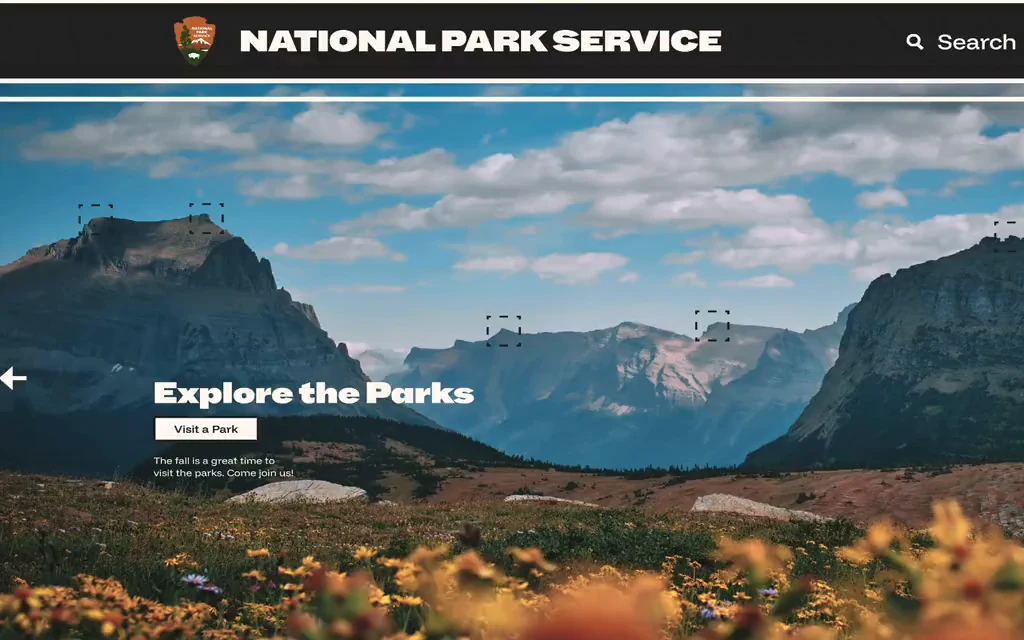
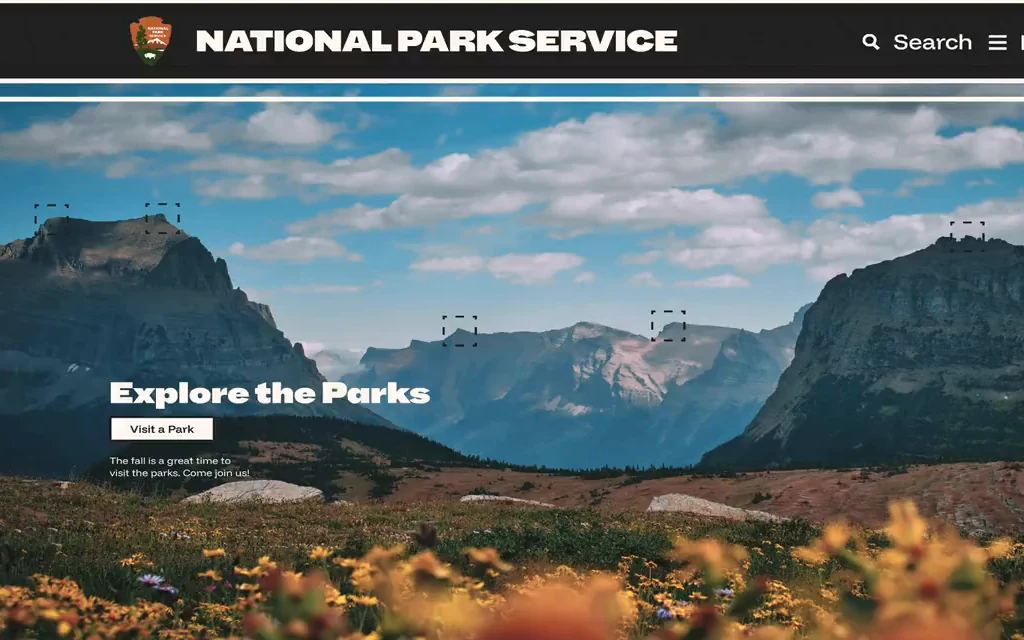
National Park Service: keep the wildflower cover, nudged right to hide the carousel arrow; drop the other options
Claude-Session: https://claude.ai/code/session_01FpZ9Z94xGpijwSzcHRhhjq

diff --git a/index.html b/index.html
@@ -649,7 +649,7 @@ footer { border-top: 1px solid var(--line); }
 <script>
 /* Draft notes (yellow boxes) mark what Jack still needs to supply. Set to false to hide them all. */
 const DRAFT = true;
-const ASSETS = {"cover-quarters": "assets/cover-quarters.webp", "cover-stewart-title": "assets/cover-stewart-title.png", "cover-amazon-music": "assets/cover-amazon-music.webp", "cover-savannah-parking": "assets/cover-savannah-parking.webp", "cover-national-park-service": "assets/cover-national-park-service.webp", "cover-nps-card": "assets/cover-nps-card.webp", "cover-nps-lake": "assets/cover-nps-lake.webp", "cover-nps-alaska": "assets/cover-nps-alaska.webp", "cover-nps-denali": "assets/cover-nps-denali.webp", "cover-nest-thermostat": "assets/cover-nest-thermostat.webp", "nps-topo": "assets/nps-topo.webp", "nps-real": "assets/nps-real.webp", "nps-nat": "assets/nps-nat.webp", "nps-con": "assets/nps-con.webp", "nps-color": "assets/nps-color.webp", "nps-type": "assets/nps-type.webp", "nps-layout": "assets/nps-layout.webp", "nps-mirage": "assets/nps-mirage.webp", "nps-sunday": "assets/nps-sunday.png", "nps-hikeon": "assets/nps-hikeon.webp", "nps-palette": "assets/nps-palette.webp", "nps-typefaces": "assets/nps-typefaces.webp", "nps-shapes": "assets/nps-shapes.webp", "nps-illus": "assets/nps-illus.webp", "nps-components": "assets/nps-components.webp", "nps-flow": "assets/nps-flow.webp", "nest-lookbook": "assets/nest-lookbook.webp", "nest-poster": "assets/nest-poster.webp", "nest-summary": "assets/nest-summary.webp", "nest-sg1": "assets/nest-sg1.png", "nest-sg2": "assets/nest-sg2.png", "nest-sg3": "assets/nest-sg3.png", "nest-sg4": "assets/nest-sg4.png", "nest-sg5": "assets/nest-sg5.png", "nest-sg6": "assets/nest-sg6.png", "nest-eco": "assets/nest-eco.png", "nest-cool": "assets/nest-cool.webp", "nest-heat": "assets/nest-heat.webp", "nest-home": "assets/nest-home.png", "nest-schedule": "assets/nest-schedule.png", "fr-hero": "assets/fr-hero.webp", "fr-obs1": "assets/fr-obs1.webp", "fr-obs2": "assets/fr-obs2.webp", "fr-stake": "assets/fr-stake.png", "fr-screener": "assets/fr-screener.png", "fr-questions": "assets/fr-questions.png", "fr-insights": "assets/fr-insights.png", "fr-workshop": "assets/fr-workshop.webp", "fr-kit": "assets/fr-kit.webp", "fr-data": "assets/fr-data.webp", "fr-aff1": "assets/fr-aff1.webp", "fr-aff2": "assets/fr-aff2.webp", "fr-front": "assets/fr-front.webp", "fr-back": "assets/fr-back.webp", "fr-p12": "assets/fr-p12.webp", "fr-p34": "assets/fr-p34.webp", "fr-p56": "assets/fr-p56.webp", "fr-mock": "assets/fr-mock.webp", "gd-chloris": "assets/gd-chloris.webp", "gd-film": "assets/gd-film.png", "gd-type": "assets/gd-type.webp", "pw-back": "assets/pw-back.webp", "pw-front": "assets/pw-front.webp", "pw-sticker": "assets/pw-sticker.webp", "pw-sticker-ai": "assets/pw-sticker-ai.webp", "pw-coaster": "assets/pw-coaster.webp", "pw-coaster-ai": "assets/pw-coaster-ai.webp", "id-model": "assets/id-model.webp", "id-proto": "assets/id-proto.webp", "nps-landing": "assets/nps-landing.mp4", "nps-alaska": "assets/nps-alaska.mp4", "nps-denali": "assets/nps-denali.mp4", "jack-walker-headshot": "assets/jack-walker-headshot.webp", "arc-cover": "assets/arc-cover.webp", "arc-fb": "assets/arc-fb.webp", "arc-p12": "assets/arc-p12.webp", "arc-p34": "assets/arc-p34.webp", "arc-p78": "assets/arc-p78.webp", "arc-p910": "assets/arc-p910.webp", "arc-p1112": "assets/arc-p1112.webp", "arc-rebird": "assets/arc-rebird.webp", "gd-bigbend1": "assets/gd-bigbend1.webp", "gd-bigbend2": "assets/gd-bigbend2.webp", "gd-brand": "assets/gd-brand.webp", "gd-chloris2": "assets/gd-chloris2.webp", "gd-chloris3": "assets/gd-chloris3.webp", "gd-escape": "assets/gd-escape.webp", "gd-farm1": "assets/gd-farm1.webp", "gd-farm2": "assets/gd-farm2.webp", "gd-farm3": "assets/gd-farm3.webp", "gd-farm4": "assets/gd-farm4.webp", "gd-focus": "assets/gd-focus.webp", "gd-hwy-poster": "assets/gd-hwy-poster.webp", "gd-mntpr": "assets/gd-mntpr.webp", "gd-nina1": "assets/gd-nina1.webp", "gd-nina2": "assets/gd-nina2.webp", "id-gpu1": "assets/id-gpu1.webp", "id-gpu2": "assets/id-gpu2.webp", "id-gpu3": "assets/id-gpu3.webp", "id-gpu4": "assets/id-gpu4.webp", "id-gpu5": "assets/id-gpu5.webp", "id-gpu6": "assets/id-gpu6.webp", "lamp-01": "assets/lamp-01.webp", "lamp-02": "assets/lamp-02.webp", "lamp-03": "assets/lamp-03.webp", "lamp-04": "assets/lamp-04.webp", "lamp-05": "assets/lamp-05.webp", "lamp-06": "assets/lamp-06.webp", "lamp-07": "assets/lamp-07.webp", "lamp-08": "assets/lamp-08.webp", "lamp-09": "assets/lamp-09.webp", "lamp-10": "assets/lamp-10.webp", "lamp-11": "assets/lamp-11.webp", "lamp-12": "assets/lamp-12.webp", "lamp-13a": "assets/lamp-13a.webp", "lamp-13b": "assets/lamp-13b.webp", "pw-bmw-ai": "assets/pw-bmw-ai.webp", "arc-res-photos": "assets/arc-res-photos.webp", "arc-res-cycle": "assets/arc-res-cycle.webp", "arc-board": "assets/arc-board.webp", "arc-logo": "assets/arc-logo.webp", "arc-grid": "assets/arc-grid.webp", "arc-imagery": "assets/arc-imagery.webp", "arc-type": "assets/arc-type.webp", "arc-dev-grid": "assets/arc-dev-grid.webp", "arc-dev-infinity": "assets/arc-dev-infinity.webp", "arc-dev-cover": "assets/arc-dev-cover.webp", "arc-dev-fabric": "assets/arc-dev-fabric.webp", "arc-photo-left": "assets/arc-photo-left.webp", "arc-photo-right": "assets/arc-photo-right.webp", "huck-1": "assets/huck-1.webp", "huck-2": "assets/huck-2.webp", "huck-3": "assets/huck-3.webp", "huck-4": "assets/huck-4.webp", "huck-5": "assets/huck-5.webp", "huck-6": "assets/huck-6.webp", "huck-7": "assets/huck-7.webp", "huck-8": "assets/huck-8.webp", "emory-1": "assets/emory-1.webp", "emory-2": "assets/emory-2.webp", "emory-3": "assets/emory-3.webp", "emory-4": "assets/emory-4.webp", "emory-6": "assets/emory-6.webp", "emory-7": "assets/emory-7.webp"};
+const ASSETS = {"cover-quarters": "assets/cover-quarters.webp", "cover-stewart-title": "assets/cover-stewart-title.png", "cover-amazon-music": "assets/cover-amazon-music.webp", "cover-savannah-parking": "assets/cover-savannah-parking.webp", "cover-national-park-service": "assets/cover-national-park-service.webp", "cover-nps-card": "assets/cover-nps-card.webp", "cover-nest-thermostat": "assets/cover-nest-thermostat.webp", "nps-topo": "assets/nps-topo.webp", "nps-real": "assets/nps-real.webp", "nps-nat": "assets/nps-nat.webp", "nps-con": "assets/nps-con.webp", "nps-color": "assets/nps-color.webp", "nps-type": "assets/nps-type.webp", "nps-layout": "assets/nps-layout.webp", "nps-mirage": "assets/nps-mirage.webp", "nps-sunday": "assets/nps-sunday.png", "nps-hikeon": "assets/nps-hikeon.webp", "nps-palette": "assets/nps-palette.webp", "nps-typefaces": "assets/nps-typefaces.webp", "nps-shapes": "assets/nps-shapes.webp", "nps-illus": "assets/nps-illus.webp", "nps-components": "assets/nps-components.webp", "nps-flow": "assets/nps-flow.webp", "nest-lookbook": "assets/nest-lookbook.webp", "nest-poster": "assets/nest-poster.webp", "nest-summary": "assets/nest-summary.webp", "nest-sg1": "assets/nest-sg1.png", "nest-sg2": "assets/nest-sg2.png", "nest-sg3": "assets/nest-sg3.png", "nest-sg4": "assets/nest-sg4.png", "nest-sg5": "assets/nest-sg5.png", "nest-sg6": "assets/nest-sg6.png", "nest-eco": "assets/nest-eco.png", "nest-cool": "assets/nest-cool.webp", "nest-heat": "assets/nest-heat.webp", "nest-home": "assets/nest-home.png", "nest-schedule": "assets/nest-schedule.png", "fr-hero": "assets/fr-hero.webp", "fr-obs1": "assets/fr-obs1.webp", "fr-obs2": "assets/fr-obs2.webp", "fr-stake": "assets/fr-stake.png", "fr-screener": "assets/fr-screener.png", "fr-questions": "assets/fr-questions.png", "fr-insights": "assets/fr-insights.png", "fr-workshop": "assets/fr-workshop.webp", "fr-kit": "assets/fr-kit.webp", "fr-data": "assets/fr-data.webp", "fr-aff1": "assets/fr-aff1.webp", "fr-aff2": "assets/fr-aff2.webp", "fr-front": "assets/fr-front.webp", "fr-back": "assets/fr-back.webp", "fr-p12": "assets/fr-p12.webp", "fr-p34": "assets/fr-p34.webp", "fr-p56": "assets/fr-p56.webp", "fr-mock": "assets/fr-mock.webp", "gd-chloris": "assets/gd-chloris.webp", "gd-film": "assets/gd-film.png", "gd-type": "assets/gd-type.webp", "pw-back": "assets/pw-back.webp", "pw-front": "assets/pw-front.webp", "pw-sticker": "assets/pw-sticker.webp", "pw-sticker-ai": "assets/pw-sticker-ai.webp", "pw-coaster": "assets/pw-coaster.webp", "pw-coaster-ai": "assets/pw-coaster-ai.webp", "id-model": "assets/id-model.webp", "id-proto": "assets/id-proto.webp", "nps-landing": "assets/nps-landing.mp4", "nps-alaska": "assets/nps-alaska.mp4", "nps-denali": "assets/nps-denali.mp4", "jack-walker-headshot": "assets/jack-walker-headshot.webp", "arc-cover": "assets/arc-cover.webp", "arc-fb": "assets/arc-fb.webp", "arc-p12": "assets/arc-p12.webp", "arc-p34": "assets/arc-p34.webp", "arc-p78": "assets/arc-p78.webp", "arc-p910": "assets/arc-p910.webp", "arc-p1112": "assets/arc-p1112.webp", "arc-rebird": "assets/arc-rebird.webp", "gd-bigbend1": "assets/gd-bigbend1.webp", "gd-bigbend2": "assets/gd-bigbend2.webp", "gd-brand": "assets/gd-brand.webp", "gd-chloris2": "assets/gd-chloris2.webp", "gd-chloris3": "assets/gd-chloris3.webp", "gd-escape": "assets/gd-escape.webp", "gd-farm1": "assets/gd-farm1.webp", "gd-farm2": "assets/gd-farm2.webp", "gd-farm3": "assets/gd-farm3.webp", "gd-farm4": "assets/gd-farm4.webp", "gd-focus": "assets/gd-focus.webp", "gd-hwy-poster": "assets/gd-hwy-poster.webp", "gd-mntpr": "assets/gd-mntpr.webp", "gd-nina1": "assets/gd-nina1.webp", "gd-nina2": "assets/gd-nina2.webp", "id-gpu1": "assets/id-gpu1.webp", "id-gpu2": "assets/id-gpu2.webp", "id-gpu3": "assets/id-gpu3.webp", "id-gpu4": "assets/id-gpu4.webp", "id-gpu5": "assets/id-gpu5.webp", "id-gpu6": "assets/id-gpu6.webp", "lamp-01": "assets/lamp-01.webp", "lamp-02": "assets/lamp-02.webp", "lamp-03": "assets/lamp-03.webp", "lamp-04": "assets/lamp-04.webp", "lamp-05": "assets/lamp-05.webp", "lamp-06": "assets/lamp-06.webp", "lamp-07": "assets/lamp-07.webp", "lamp-08": "assets/lamp-08.webp", "lamp-09": "assets/lamp-09.webp", "lamp-10": "assets/lamp-10.webp", "lamp-11": "assets/lamp-11.webp", "lamp-12": "assets/lamp-12.webp", "lamp-13a": "assets/lamp-13a.webp", "lamp-13b": "assets/lamp-13b.webp", "pw-bmw-ai": "assets/pw-bmw-ai.webp", "arc-res-photos": "assets/arc-res-photos.webp", "arc-res-cycle": "assets/arc-res-cycle.webp", "arc-board": "assets/arc-board.webp", "arc-logo": "assets/arc-logo.webp", "arc-grid": "assets/arc-grid.webp", "arc-imagery": "assets/arc-imagery.webp", "arc-type": "assets/arc-type.webp", "arc-dev-grid": "assets/arc-dev-grid.webp", "arc-dev-infinity": "assets/arc-dev-infinity.webp", "arc-dev-cover": "assets/arc-dev-cover.webp", "arc-dev-fabric": "assets/arc-dev-fabric.webp", "arc-photo-left": "assets/arc-photo-left.webp", "arc-photo-right": "assets/arc-photo-right.webp", "huck-1": "assets/huck-1.webp", "huck-2": "assets/huck-2.webp", "huck-3": "assets/huck-3.webp", "huck-4": "assets/huck-4.webp", "huck-5": "assets/huck-5.webp", "huck-6": "assets/huck-6.webp", "huck-7": "assets/huck-7.webp", "huck-8": "assets/huck-8.webp", "emory-1": "assets/emory-1.webp", "emory-2": "assets/emory-2.webp", "emory-3": "assets/emory-3.webp", "emory-4": "assets/emory-4.webp", "emory-6": "assets/emory-6.webp", "emory-7": "assets/emory-7.webp"};
 const EMAIL = "walkerajack@gmail.com";
 const LINKEDIN = "https://www.linkedin.com/in/jack-walker-b20035321/";
 const INSTAGRAM = "https://www.instagram.com/trailwlk.r/";
@@ -1564,9 +1564,7 @@ function viewHome() {
         <figure class="ascii-reveal" id="portrait" aria-label="Portrait of Jack Walker, revealed as you move across it"></figure>
       </div>
     </section>
-    <section class="featured" id="projects"><h2>UX Projects</h2><div class="cards">${FEATURED.map(p => p.id !== "national-park-service" ? card(p) : /* TEMPORARY: cover options to compare */
-        [["cover-nps-card", "A · Wildflowers (current)"], ["cover-nps-lake", "B · Lake reflection"], ["cover-nps-alaska", "C · Alaska"], ["cover-nps-denali", "D · Denali"]]
-          .map(([t, l]) => card({ ...p, thumb: t, meta: "Cover option " + l })).join("")).join("")}
+    <section class="featured" id="projects"><h2>UX Projects</h2><div class="cards">${FEATURED.map(card).join("")}
       <div class="card capstone" aria-label="Capstone, in progress">
         <h2>Capstone</h2>
         <span class="peak-status"><b aria-hidden="true">[<i>&gt;</i>]</b> In progress</span>
